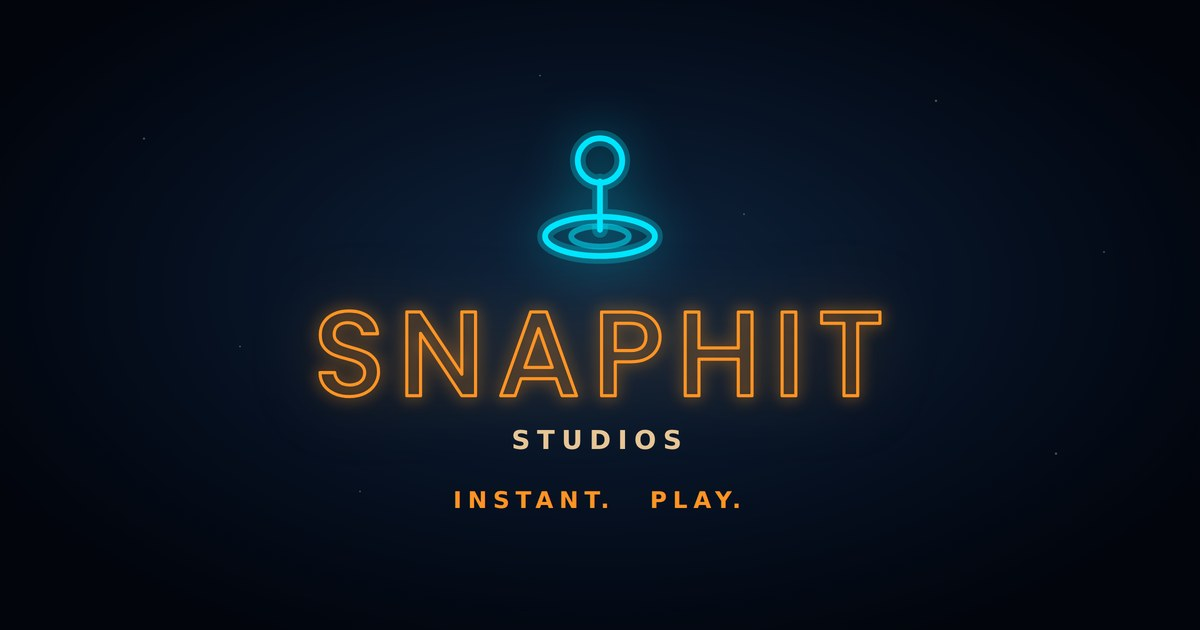
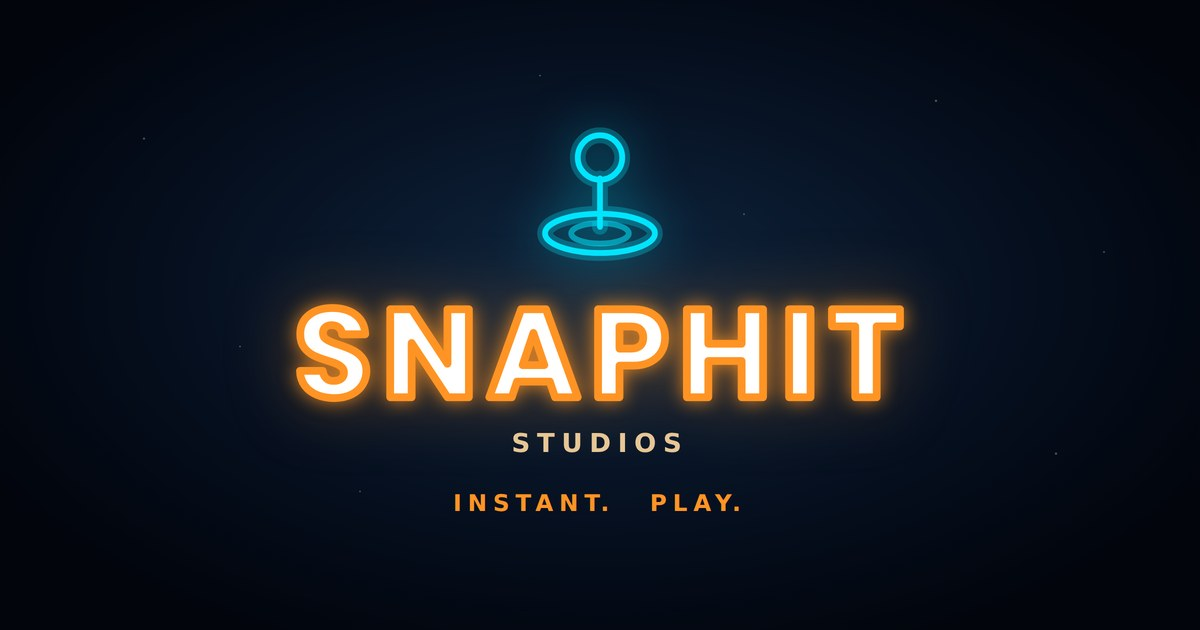
Add files via upload

diff --git a/docs/index.html b/docs/index.html
@@ -58,12 +58,12 @@
      no seam under a crossbar, no box at a junction. It also removes every
      font fallback, synthetic bold and text-stroke support question. */
   .wm{display:block;height:auto;color:var(--amber);overflow:visible}
-  .wm use{stroke-width:26}
+  .wm use{stroke-width:62}
   .wm-foot{width:min(212px,58vw);margin:0 auto;
-    filter:drop-shadow(0 0 5px rgba(255,148,36,.9)) drop-shadow(0 0 20px rgba(255,148,36,.3))}
-  .wm-marq{width:54%;margin:0 auto;color:#ffb765;
-    filter:drop-shadow(0 0 4px rgba(255,148,36,.95)) drop-shadow(0 0 16px rgba(255,148,36,.45))}
-  .wm-marq use{stroke-width:34}
+    filter:drop-shadow(0 0 4px rgba(255,148,36,.8)) drop-shadow(0 0 18px rgba(255,148,36,.32))}
+  .wm-marq{width:54%;margin:0 auto;color:var(--amber);
+    filter:drop-shadow(0 0 4px rgba(255,148,36,.85)) drop-shadow(0 0 15px rgba(255,148,36,.42))}
+  .wm-marq use{stroke-width:62}
 
   /* ---------- hero ---------- */
   .hero{position:relative;width:100%;height:100dvh;min-height:420px}
@@ -521,11 +521,12 @@
 <body>
 
 <svg width="0" height="0" aria-hidden="true" style="position:absolute">
-  <symbol id="wm" viewBox="0 0 4652 711">
-    <path d="M122 512H0Q0 572 32 617Q64 662 120 686.5Q176 711 246 711Q320 711 374.5 682.5Q429 654 457.5 607Q486 560 486 507Q486 441 455.5 401.5Q425 362 381.5 343Q338 324 269 305Q217 291 187 279Q157 267 137.5 246.5Q118 226 118 194Q118 147 149 122Q180 97 229 97Q283 97 316 124Q349 151 352 189H478Q471 101 406.5 50.5Q342 0 241 0Q170 0 116 24Q62 48 32 93Q2 138 2 198Q2 263 32 302Q62 341 104.5 359.5Q147 378 215 396Q269 410 299.5 422Q330 434 350.5 456Q371 478 371 513Q371 558 338 586.5Q305 615 246 615Q189 615 157.5 586Q126 557 122 512ZM1178 704H1292V8H1178V526L835 8H721V704H835V185L1178 704ZM1670 562H1961L2011 704H2131L1882 8H1750L1501 704H1620L1670 562ZM1816 146 1929 469H1702L1816 146ZM2453 422H2579Q2665 422 2720 392.5Q2775 363 2800 316Q2825 269 2825 216Q2825 158 2797.5 111Q2770 64 2714.5 36.5Q2659 9 2579 9H2339V704H2453V422ZM2579 102Q2708 102 2708 216Q2708 270 2676 299.5Q2644 329 2579 329H2453V102H2579ZM3589 704V9H3475V307H3148V9H3034V704H3148V400H3475V704H3589ZM3839 9V704H3953V9ZM4652 102V9H4167V102H4353V704H4467V102H4652Z" fill="none" stroke="currentColor"
+  <symbol id="wm" viewBox="0 0 4789 719">
+    <path d="M182 502H0Q2 571 38.5 620Q75 669 136 694Q197 719 274 719Q353 719 411 690Q469 661 499.5 612Q530 563 530 503Q530 440 499 400Q468 360 425.5 339Q383 318 315 295Q247 273 215 254Q183 235 183 201Q183 170 202 153.5Q221 137 252 137Q288 137 311 156.5Q334 176 336 210H521Q516 111 445 55.5Q374 0 258 0Q144 0 73 55.5Q2 111 2 209Q2 275 33 316Q64 357 107 378Q150 399 218 420Q265 434 290.5 445Q316 456 333.5 473Q351 490 351 516Q351 547 329 564.5Q307 582 269 582Q232 582 209 561.5Q186 541 182 502ZM1177 712H1348V10H1177V445L891 10H720V712H891V279L1177 712ZM1732 588H1994L2036 712H2217L1963 10H1765L1511 712H1690L1732 588ZM1863 199 1950 456H1777L1863 199ZM2550 460H2656Q2742 460 2800 429Q2858 398 2886 347.5Q2914 297 2914 236Q2914 170 2885 119Q2856 68 2798 39Q2740 10 2656 10H2379V712H2550V460ZM2716 171Q2740 194 2740 236Q2740 278 2716 301Q2692 324 2643 324H2550V148H2643Q2692 148 2716 171ZM3696 712V10H3525V285H3259V10H3088V712H3259V423H3525V712H3696ZM3904 10V712H4075V10ZM4789 147V10H4246V147H4432V712H4603V147H4789Z" fill="#ffffff" stroke="currentColor"
           stroke-linejoin="round" stroke-linecap="round"/>
   </symbol>
 </svg>
+
 
 <section class="hero" id="top">
   <iframe id="heroGame" src="play/snaphit.html" title="We Love Games: a playable demo"
@@ -635,7 +636,7 @@
       </g>
     </g>
   </svg>
-  <svg class="wm wm-foot" viewBox="0 0 4652 711" role="img" aria-label="SnapHit"><use href="#wm"/></svg>
+  <svg class="wm wm-foot" viewBox="0 0 4789 719" role="img" aria-label="SnapHit"><use href="#wm"/></svg>
   <span class="sub">STUDIOS</span>
   <span class="tag">INSTANT<i>.</i> PLAY<i>.</i></span>
 </footer>
@@ -667,7 +668,7 @@ for (const g of GAMES){
   cab.className = 'cab';
   cab.innerHTML =
     '<div class="cab-body">' +
-      '<div class="marquee"><svg class="wm wm-marq" viewBox="0 0 4652 711" role="img" aria-label="SnapHit"><use href="#wm"/></svg></div>' +
+      '<div class="marquee"><svg class="wm wm-marq" viewBox="0 0 4789 719" role="img" aria-label="SnapHit"><use href="#wm"/></svg></div>' +
       '<div class="aperture">' +
         '<div class="phone">' +
           '<span class="key vol v1"></span><span class="key vol v2"></span>' +

diff --git a/docs/404.html b/docs/404.html
@@ -32,7 +32,7 @@
   .sub{display:block;margin-top:12px;font-size:13px;font-weight:800;
     letter-spacing:.26em;color:#ffd9a2;opacity:.8}
   .wm{display:block;width:min(216px,60vw);height:auto;margin:0 auto;
-    filter:drop-shadow(0 0 5px rgba(255,148,36,.9)) drop-shadow(0 0 20px rgba(255,148,36,.3))}
+    filter:drop-shadow(0 0 4px rgba(255,148,36,.8)) drop-shadow(0 0 18px rgba(255,148,36,.32))}
   .tag{display:block;margin-top:13px;font-size:12px;font-weight:800;
     letter-spacing:.26em;word-spacing:.9em;color:#ff9424}
   .tag i{font-style:normal;margin-left:-.24em;letter-spacing:.26em}
@@ -56,8 +56,8 @@
         </g>
       </g>
     </svg>
-    <svg class="wm" viewBox="0 0 4652 711" role="img" aria-label="SnapHit">
-      <path d="M122 512H0Q0 572 32 617Q64 662 120 686.5Q176 711 246 711Q320 711 374.5 682.5Q429 654 457.5 607Q486 560 486 507Q486 441 455.5 401.5Q425 362 381.5 343Q338 324 269 305Q217 291 187 279Q157 267 137.5 246.5Q118 226 118 194Q118 147 149 122Q180 97 229 97Q283 97 316 124Q349 151 352 189H478Q471 101 406.5 50.5Q342 0 241 0Q170 0 116 24Q62 48 32 93Q2 138 2 198Q2 263 32 302Q62 341 104.5 359.5Q147 378 215 396Q269 410 299.5 422Q330 434 350.5 456Q371 478 371 513Q371 558 338 586.5Q305 615 246 615Q189 615 157.5 586Q126 557 122 512ZM1178 704H1292V8H1178V526L835 8H721V704H835V185L1178 704ZM1670 562H1961L2011 704H2131L1882 8H1750L1501 704H1620L1670 562ZM1816 146 1929 469H1702L1816 146ZM2453 422H2579Q2665 422 2720 392.5Q2775 363 2800 316Q2825 269 2825 216Q2825 158 2797.5 111Q2770 64 2714.5 36.5Q2659 9 2579 9H2339V704H2453V422ZM2579 102Q2708 102 2708 216Q2708 270 2676 299.5Q2644 329 2579 329H2453V102H2579ZM3589 704V9H3475V307H3148V9H3034V704H3148V400H3475V704H3589ZM3839 9V704H3953V9ZM4652 102V9H4167V102H4353V704H4467V102H4652Z" fill="none" stroke="#ff9424" stroke-width="26"
+    <svg class="wm" viewBox="0 0 4789 719" role="img" aria-label="SnapHit">
+      <path d="M182 502H0Q2 571 38.5 620Q75 669 136 694Q197 719 274 719Q353 719 411 690Q469 661 499.5 612Q530 563 530 503Q530 440 499 400Q468 360 425.5 339Q383 318 315 295Q247 273 215 254Q183 235 183 201Q183 170 202 153.5Q221 137 252 137Q288 137 311 156.5Q334 176 336 210H521Q516 111 445 55.5Q374 0 258 0Q144 0 73 55.5Q2 111 2 209Q2 275 33 316Q64 357 107 378Q150 399 218 420Q265 434 290.5 445Q316 456 333.5 473Q351 490 351 516Q351 547 329 564.5Q307 582 269 582Q232 582 209 561.5Q186 541 182 502ZM1177 712H1348V10H1177V445L891 10H720V712H891V279L1177 712ZM1732 588H1994L2036 712H2217L1963 10H1765L1511 712H1690L1732 588ZM1863 199 1950 456H1777L1863 199ZM2550 460H2656Q2742 460 2800 429Q2858 398 2886 347.5Q2914 297 2914 236Q2914 170 2885 119Q2856 68 2798 39Q2740 10 2656 10H2379V712H2550V460ZM2716 171Q2740 194 2740 236Q2740 278 2716 301Q2692 324 2643 324H2550V148H2643Q2692 148 2716 171ZM3696 712V10H3525V285H3259V10H3088V712H3259V423H3525V712H3696ZM3904 10V712H4075V10ZM4789 147V10H4246V147H4432V712H4603V147H4789Z" fill="#ffffff" stroke="#ff9424" stroke-width="62"
             stroke-linejoin="round" stroke-linecap="round"/>
     </svg>
     <span class="sub">STUDIOS</span>
